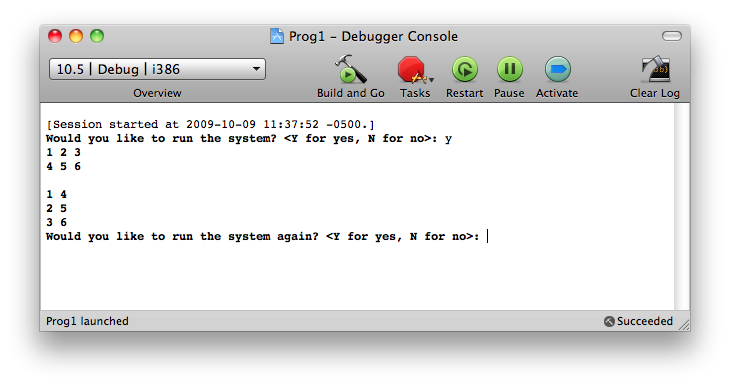
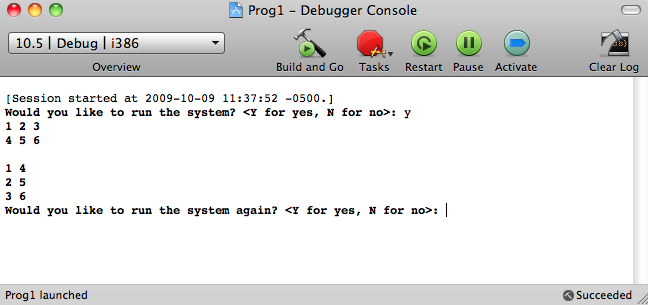
chore(readme): Update image and remove todo

diff --git a/README.md b/README.md
@@ -18,7 +18,3 @@ g++ matrix-transpose.cpp -o transpose
 ![Sparse Matrix Transpose](2009-09-22-16-03-42.png)
 ![Sparse Matrix Transpose](2009-10-09-11-38-10.png)
 
-## TODO
-
-- Replace file I/O with stdin/stdout
-
